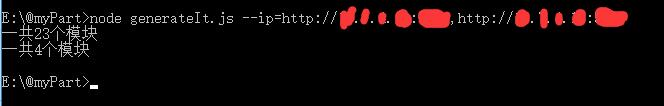
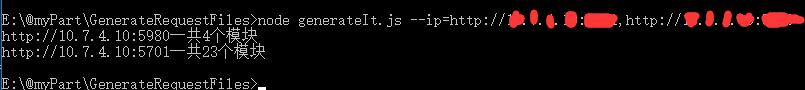
代码优化：1. 正则表达式代码优化 2. 字符串模板优化 3. 解构赋值优化；README更新；修复问题5、问题6；更新截图

Changed region(s): [[0.0, 0.0444, 1.0, 0.6667], [0.0, 0.8444, 0.3313, 1.0], [0.0, 0.6889, 0.1506, 0.8444]]

diff --git a/generateIt.js b/generateIt.js
@@ -19,15 +19,15 @@ function checkArgv(argv) {
     )
   }
   argv.forEach((item) => {
-    let key = item.match(/(?<=(--))(ip)(?==)/)
-    let value = item.match(
-      /(?<==)(http(s{0,1}):\/\/\d{1,3}\.\d{1,3}\.\d{1,3}\.\d{1,3}:\d{4}(\/{0,1},{0,})){1,}/g
-    )
+    let key = item.match(/(?<=--)ip(?==)/)
     if (key) {
       key = key[0]
     } else {
       throw new Error('参数有误')
     }
+    let value = item.match(
+      /(?<==)(?:http(?:s{0,1}):\/\/\d{1,3}(?:\.\d{1,3}){3}:\d{4}(?:\/{0,1})(?:,{0,})){1,}/g
+    )
     if (value) {
       value = value[0]
     } else {
@@ -49,7 +49,7 @@ function checkArgv(argv) {
       throw new Error('ip有误')
     } else {
       ips.forEach((item, i) => {
-        const url = item + '/swagger-resources'
+        const url = `${item}/swagger-resources`
         getResources(url, i)
       })
     }
@@ -67,7 +67,7 @@ function httpGet(url, cb) {
       let error
       // 任何 2xx 状态码都表示成功的响应，但是这里只检查 200。
       if (statusCode !== 200) {
-        error = new Error('请求失败\n' + `状态码: ${statusCode}`)
+        error = new Error(`请求失败\n状态码: ${statusCode}`)
       } else if (!/^application\/json/.test(contentType)) {
         error = new Error(
           '无效的 content-type.\n' +
@@ -104,24 +104,23 @@ function httpGet(url, cb) {
 
 // 主流程
 function getResources(url, i) {
-  const ipRegExp = /http(s{0,1}):\/\/\d{1,3}\.\d{1,3}\.\d{1,3}\.\d{1,3}:\d{4}/
   httpGet(url, (res) => {
-    const url = res.url
-    const data = res.parsedData
-    let result = url.match(ipRegExp)
-    if (result && data.length) {
-      result = result[0]
-      data.forEach((element) => {
-        const secUrl = result + element.location
-        httpGet(secUrl, ({ parsedData }) => {
-          const urlsInfo = calculateObj.calcUrl(parsedData.paths)
-          const requestInfo = calculateObj.calcRequest(parsedData.paths)
-          const info = { title: parsedData.info.title, host: result }
-          calculateObj.calcDefinitions(parsedData.definitions, requestInfo)
-          folderObj.writeFile(urlsInfo, requestInfo, info, i)
-        })
-      })
+    const { url, parsedData: data } = res
+    let result = url.match(/http(?:s{0,1}):\/\/\d{1,3}(?:\.\d{1,3}){3}:\d{4}/)
+    if (!result || !data.length) {
+      return
     }
+    result = result[0]
+    data.forEach((element) => {
+      const secUrl = `${result}${element.location}`
+      httpGet(secUrl, ({ parsedData }) => {
+        const urlsInfo = calculateObj.calcUrl(parsedData.paths)
+        const requestInfo = calculateObj.calcRequest(parsedData.paths)
+        const info = { title: parsedData?.info?.title, host: result }
+        calculateObj.calcDefinitions(parsedData.definitions, requestInfo)
+        folderObj.writeFile(urlsInfo, requestInfo, info, i)
+      })
+    })
   })
 }
 
@@ -131,11 +130,14 @@ const calculateObj = {
   calcUrl: function (paths) {
     const temPathsKeys = Object.keys(paths)
     const urlsObj = {}
+    let len = 0
+    let len2 = 0
     temPathsKeys.forEach((item) => {
       let secKeys = Object.keys(paths[item])
+      len += secKeys.length
       const prefix = item.split('/').filter((item) => item)
       if (secKeys.length > 1) {
-        secKeys = secKeys.map((obj) => (obj = item + ':' + obj))
+        secKeys = secKeys.map((obj) => (obj = `${item}:${obj}`))
         urlsObj[prefix[0]]
           ? urlsObj[prefix[0]].concat(secKeys)
           : (urlsObj[prefix[0]] = secKeys)
@@ -145,6 +147,12 @@ const calculateObj = {
           : (urlsObj[prefix[0]] = [item])
       }
     })
+    Object.values(urlsObj).forEach((item) => {
+      len2 += item.length
+    })
+    if (len !== len2) {
+      console.log(`计算url后缺失${ Math.abs(len - len2) }个【原因：url重复】`)
+    }
     return urlsObj
   },
   // 处理每个请求的数据（参数、描述、url、请求方式…）
@@ -174,7 +182,7 @@ const calculateObj = {
           if (Object.keys(element).length === 1) {
             tem[key] = info
           } else {
-            tem[key + ':' + eKey] = info
+            tem[`${key}:${eKey}`] = info
           }
         }
       }
@@ -184,7 +192,7 @@ const calculateObj = {
   // 处理请求参数
   calcParameters: function (params, method) {
     const tem = {}
-    params.forEach((item, i) => {
+    params.forEach((item) => {
       let prefix = ''
       switch (item.in) {
         case 'query':
@@ -220,7 +228,7 @@ const calculateObj = {
       if (item?.in === 'path') {
         obj.in = item?.in
       }
-      tem[prefix + item.name] = obj
+      tem[`${prefix}${item.name}`] = obj
     })
     return tem
   },
@@ -240,7 +248,7 @@ const calculateObj = {
             }
             for (const property in info.properties) {
               const propertyInfo = info.properties[property]
-              let type = propertyInfo.type
+              let { type } = propertyInfo
               if (propertyInfo?.items?.type) {
                 type += `<${propertyInfo?.items?.type}>`
               }
@@ -274,6 +282,7 @@ const calculateObj = {
   
 import request from '@/utils/request'
 `
+      let names = []
       for (const k in element) {
         // url是具体某条链接
         const urlKey = element[k]
@@ -283,9 +292,18 @@ import request from '@/utils/request'
         // 参数在url里的
         // 参数不在url里的：params或data
         // 剩余信息rest
-        const { paramStr, paramTypeStr, funsParamStr } = calculateObj.checkParam(param)
+        const {
+          paramStr,
+          paramTypeStr,
+          funsParamStr,
+        } = calculateObj.checkParam(param)
         const requestUrl = calculateObj.calcRequestUrl(url)
-        const nameStr = calculateObj.calcNameStr(urlKey, url)
+        let nameStr = calculateObj.calcNameStr(urlKey, url)
+        if (names.includes(nameStr)) {
+          nameStr = calculateObj.calcRepeatNameStr(names, url)
+        } else {
+          names.push(nameStr)
+        }
         const restStr = calculateObj.caclRestStr(rest)
         str += `
 /**
@@ -340,17 +358,17 @@ export const ${nameStr} = (${funsParamStr}) => request({
       pathParams = url.slice(index + 1, -1)
       url = url.slice(0, index)
     }
-
-    return pathParams ? `'${url}' + ${pathParams}` : `'${url}'`
+    return `\`${url}${pathParams ? `\${${pathParams}}` : ''}\``
   },
   // 处理函数名
   calcNameStr: function (urlKey, url) {
     if (urlKey !== url) {
       let result = urlKey.match(/(?<=:)(get|post|delete|put)/)
-      if (result) {
-        result = result[0]
+      if (!result) {
+        return
       }
-      let prefix
+      result = result[0]
+      let prefix = ''
       switch (result) {
         case 'get':
           prefix = 'search'
@@ -371,7 +389,7 @@ export const ${nameStr} = (${funsParamStr}) => request({
         .split('/')
         .filter((item) => item)
         .reverse()[0]
-      return prefix + calcName.slice(0, 1).toUpperCase() + calcName.slice(1)
+      return `${prefix}${calcName.slice(0, 1).toUpperCase()}${calcName.slice(1)}`
     } else {
       const index = url.indexOf('{')
       if (index !== -1) {
@@ -380,11 +398,49 @@ export const ${nameStr} = (${funsParamStr}) => request({
       if (url.slice(-1).charCodeAt(0) === 47) {
         url = url.slice(0, -1)
       }
-      return url
+      const result = url
         .split('/')
         .filter((item) => item)
-        .reverse()[0]
+        .reverse()
+      let res = result[0]
+      const specialWords = [ 'break', 'do', 'in', 'typeof', 'case', 'else', 'instanceof', 'var', 'catch', 'export', 'new', 'void', 'class', 'extends', 'return', 'while', 'const', 'finally', 'super', 'with', 'continue', 'for', 'switch', 'yield', 'debugger', 'function', 'this', 'default', 'if', 'throw', 'delete', 'import', 'try', 'enum', 'implements', 'package', 'public', 'interface', 'protected', 'static', 'let', 'private', 'await', 'async', ]
+      if (specialWords.includes(res)) {
+        if (result.length >= 2) {
+          res += `${result[1].slice(0, 1).toUpperCase()}${result[1].slice(1)}`
+        } else {
+          res += Date.now()
+        }
+      }
+      return res
     }
+  },
+  // 处理出现重复函数名（重命名）
+  calcRepeatNameStr: function (allnames, url) {
+    const index = url.indexOf('{')
+    if (index !== -1) {
+      url = url.slice(0, index)
+    }
+    if (url.slice(-1).charCodeAt(0) === 47) {
+      url = url.slice(0, -1)
+    }
+    const result = url
+      .split('/')
+      .filter((item) => item)
+      .reverse()
+    let res = result[0]
+
+    if (result.length >= 2) {
+      res += `${result[1].slice(0, 1).toUpperCase()}${result[1].slice(1)}`
+    } else {
+      res += Date.now()
+    }
+    if (allnames.includes(res)) {
+      console.log(`处理函数名后，还有重复！！`)
+      // 没有保存到allnames里
+    } else {
+      allnames.push(res)
+    }
+    return res
   },
   // 处理剩余参数
   caclRestStr: function (rest) {
@@ -413,11 +469,6 @@ export const ${nameStr} = (${funsParamStr}) => request({
 
 // 文件/文件夹处理相关
 const folderObj = {
-  // 删除文件夹
-  rmDir: function (i) {
-    const dirname = 'api' + i
-    folderObj.delDir(dirname)
-  },
   // 删除文件夹内的内容
   delDir: function (dirname) {
     let files
@@ -425,7 +476,7 @@ const folderObj = {
     if (fs.existsSync(dirname)) {
       files = fs.readdirSync(dirname)
       files.forEach((file) => {
-        const curPath = dirname + '/' + file
+        const curPath = `${dirname}/${file}`
         if (fs.statSync(curPath).isDirectory()) {
           // 递归删除文件夹
           folderObj.delDir(curPath)
@@ -439,9 +490,9 @@ const folderObj = {
     }
   },
   // 将处理好的内容写入文件中
-  writeFile: function writeFile(urlsInfo, requestInfo, info, i) {
-    folderObj.rmDir(i)
-    const dirname = 'api' + i
+  writeFile: function (urlsInfo, requestInfo, info, i) {
+    const dirname = `api${i}`
+    folderObj.delDir(dirname)
     // 如果没有该文件夹，创建文件夹；文件夹已存在什么都不做
     try {
       fs.statSync(path.join(__dirname, dirname))
@@ -451,10 +502,10 @@ const folderObj = {
     const fileInfo = calculateObj.calcText(urlsInfo, requestInfo, info)
     for (const key in fileInfo) {
       const element = fileInfo[key]
-      fs.writeFileSync('./' + dirname + '/' + key, element, {
+      fs.writeFileSync(`./${dirname}/${key}`, element, {
         encoding: 'utf8',
       })
     }
-    console.log('一共' + Object.keys(fileInfo).length + '个模块')
+    console.log(`${info.host}一共${Object.keys(fileInfo).length}个模块`)
   },
 }

diff --git a/README.md b/README.md
@@ -31,7 +31,7 @@
 **生成之前会先删掉文件夹里面的内容**，受影响的话，请把内容移动到其他文件夹！！！
 
 ---
-生成之后会有一句提示：一共n个模块
+生成之后会有一句提示：某个域名一共n个模块（2020-11-30补充）
 
 这个模块是按请求url来划分的，比如：
 
@@ -45,9 +45,11 @@
 <img src="./README_IMG/result.jpg">
 
 ---
-生成的文件夹是有顺序的（和ip顺序一样），文件夹名称暂定是api加索引（api0、api1、…apin）
+生成的文件夹是【不一定】有顺序的，【因为请求返回的顺序无法控制，先返回的先处理】，文件夹名称暂定是api加索引（api0、api1、…apin）（2020-11-30补充）
 
-是在执行该工具的目录下生成的
+执行完的提示语添加了域名
+
+生成的文件夹是和generateIt.js在同一目录下的（我加到下面的问题里了）
 
 <img src="./README_IMG/result2.jpg">
 
@@ -63,13 +65,22 @@
 <img src="./README_IMG/jsContent.jpg">
 
 ---
-已发现的问题：
+已发现的问题/可优化的问题：
 
 1. 如果后端对参数类型描述不准确，得人力去改…（哭
 2. 请求参数的类型使用的是后端定的类型
 3. request文件的引入和命名，暂时是写死的（`import request from '@/utils/request'`）
 4. **导出文件这种类型的接口（返回值是文件），需要自己添加`responseType: 'blob'`**
-5. 函数的方法名可能会出现JavaScript的关键字（2020-11-30补充）
+5. 函数的方法名可能会出现JavaScript的关键字（2020-11-30补充）【已修复：如果有关键字，拼接url中倒数第二段字符串，否则拼接时间戳】
+6. 函数的方法名可能会重复（2020-11-30补充）
+
+    增加了两个提示语：（2020-11-30补充）
+    
+    1.“计算url后缺失n个【原因：url重复】”
+    
+    2.“处理函数名后，还有重复！！”（但是依然会写入js文件中）
+
+7. 生成的文件夹暂时是写死的，和generateIt.js在同一目录（2020-11-30补充）
 
 ---
 对您有帮助的话，麻烦帮我点个star呀！
